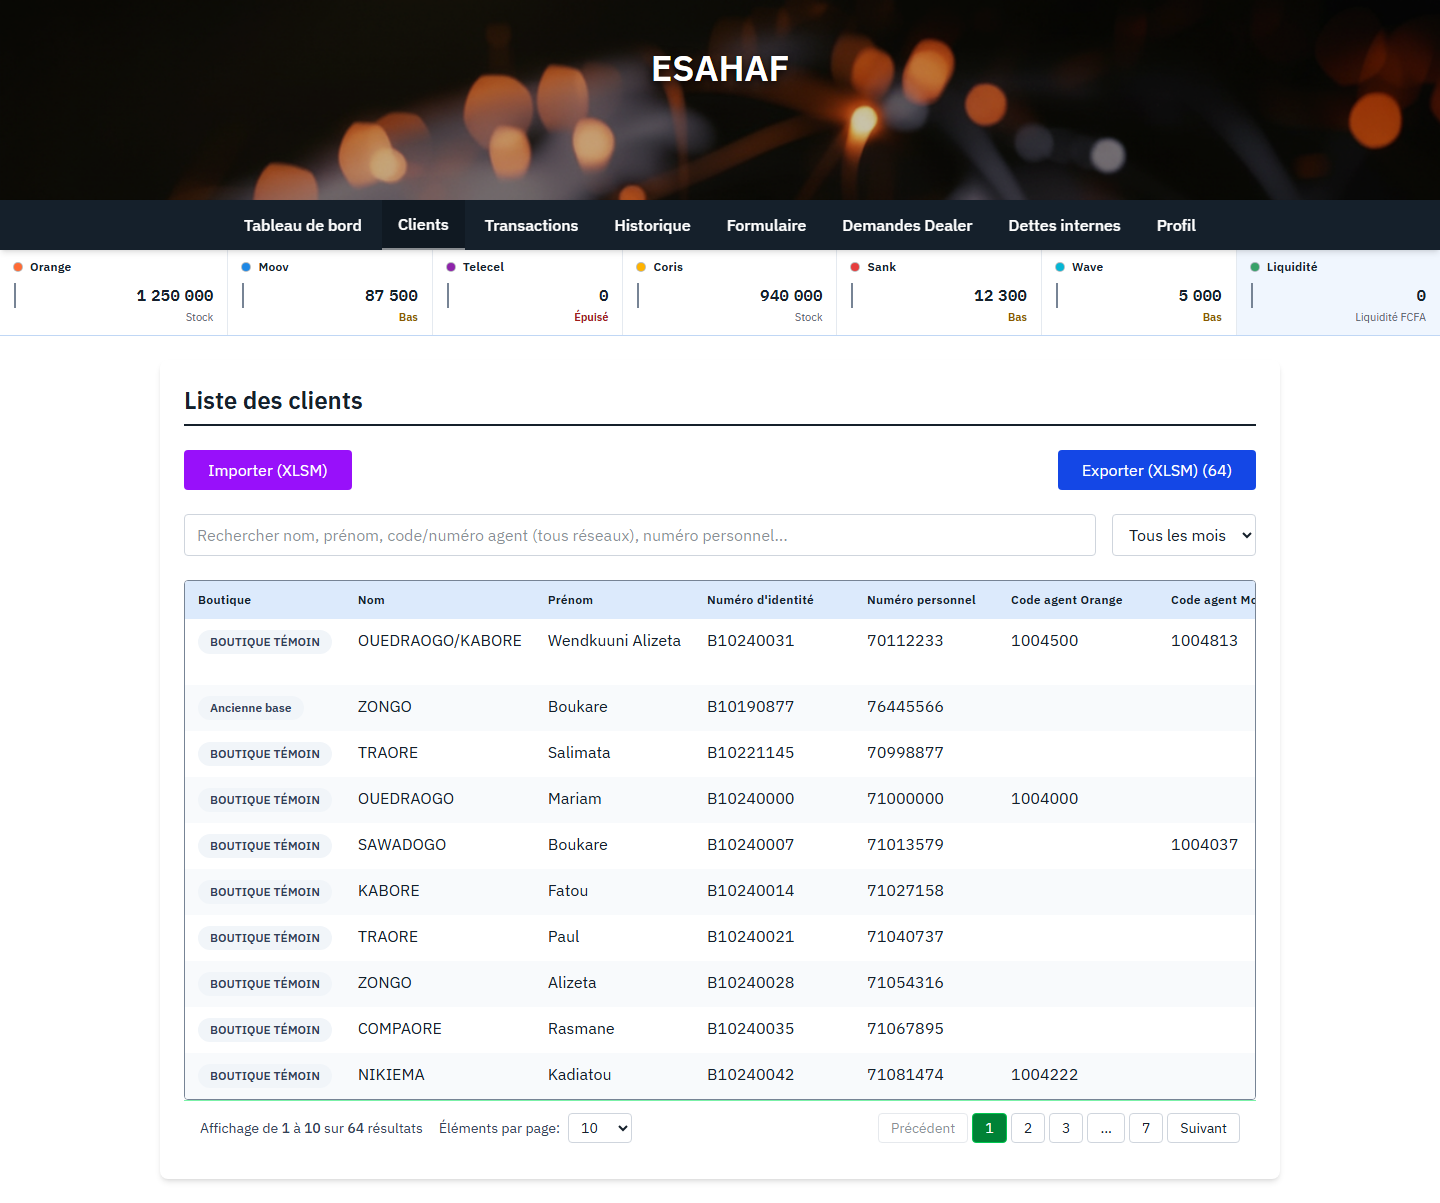
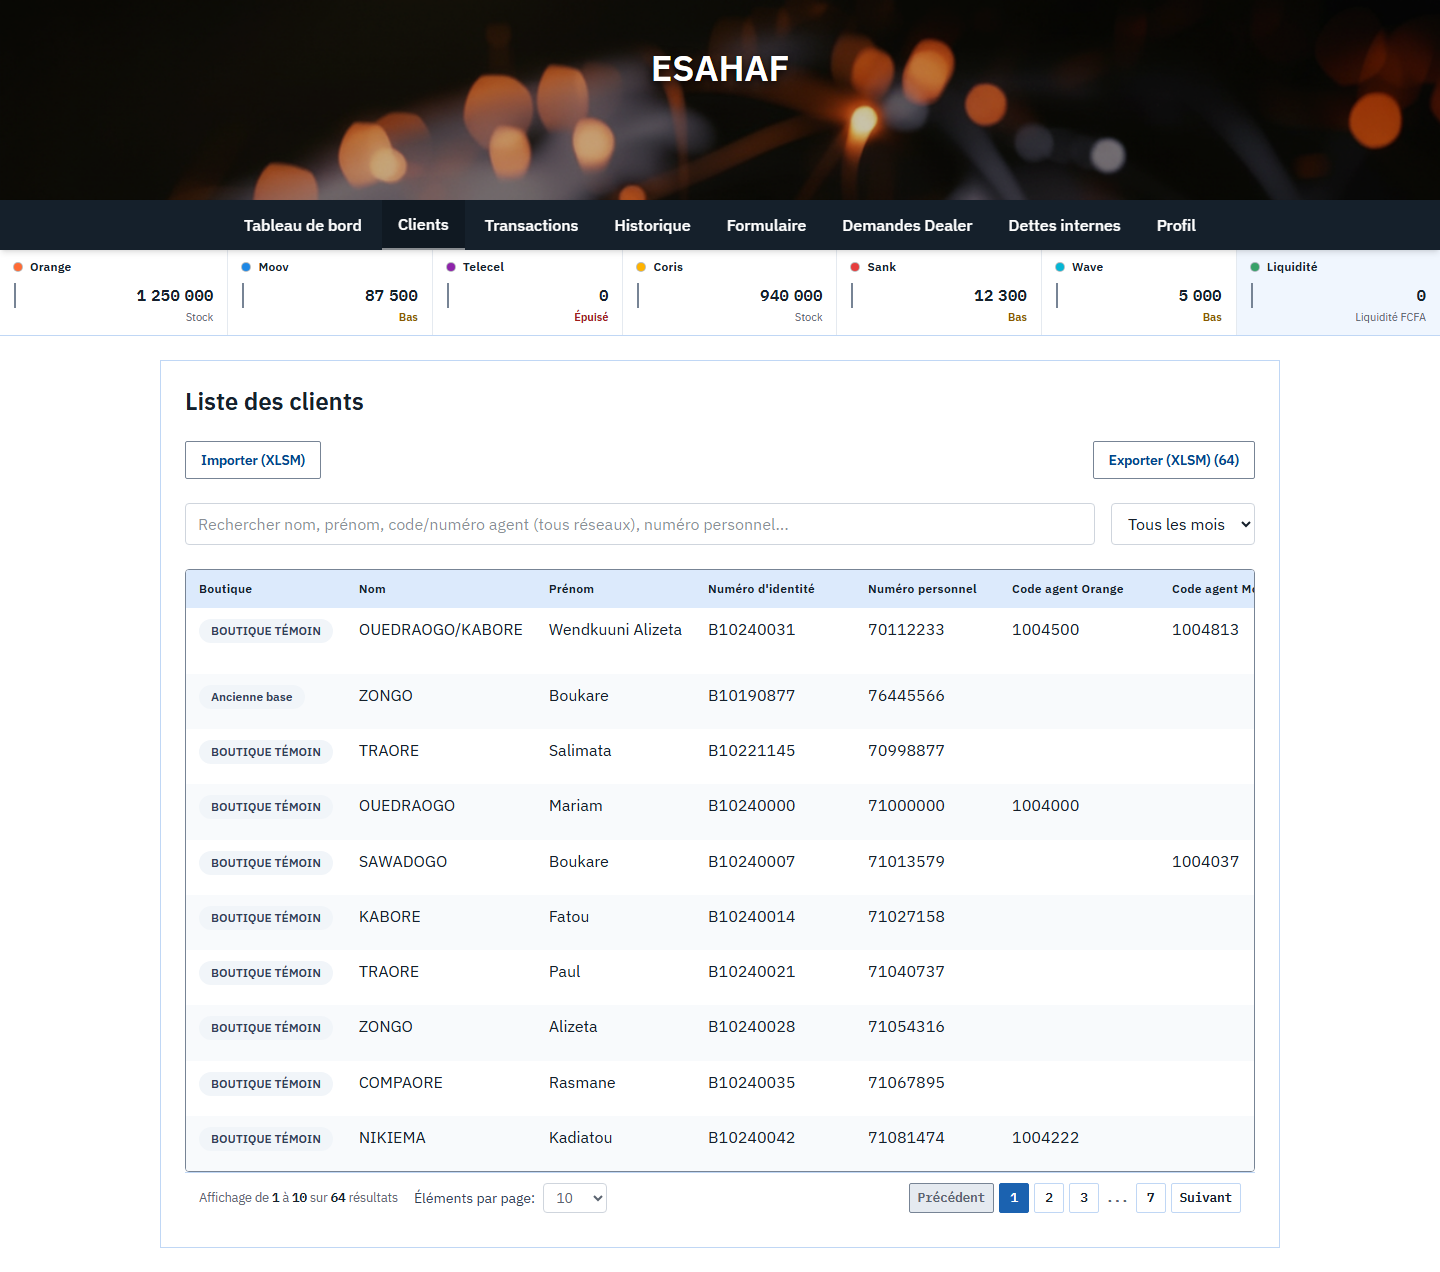
feat(design): L8.2 — l'ecran Clients, RESTYLE PUR : deux defauts geles tombent ensemble
Aucun texte n'est ajoute, retire ni deplace.

1. UN DEBORDEMENT DE 249 px, ET IL TENAIT EN UN MOT

La boucle QA le gelait a 375 px en designant `Pagination.jsx:74`. La barre de
pagination est un `flex justify-between` SANS `flex-wrap`, et elle porte deux
blocs qui ne tiennent pas cote a cote sur un telephone — « Affichage de 1 a 10
sur 64 resultats » plus le selecteur de taille d'un cote, « Precedent », les
numeros de page et « Suivant » de l'autre. Un flex sans wrap ne RETRECIT pas :
il POUSSE.

`flex-wrap: wrap` corrige le debordement. Le reste du bloc est de l'habillage :
`justify-between` collait les deux groupes aux bords opposes ; une fois la barre
capable de passer a la ligne, c'est `margin-left:auto` sur le groupe des pages
qui fait le meme travail sans l'imposer quand ca ne rentre pas — exactement ce
que fait la maquette, qui note elle-meme « meme decoupage que le composant
Pagination.jsx du produit ».

2. DU BLANC SUR ORANGE A 2,82:1, ET IL ETAIT CACHE PAR LE PREMIER

L'assertion de debordement interrompait le test AVANT le scan axe. Une fois le
debordement gele par sa VALEUR, le scan s'est execute et a trouve du blanc sur
`bg-orange-500` — 2,82:1 contre 4,5:1 exige — sur le bouton « Modifier » de
CHAQUE ligne, aux trois largeurs.

C'est la justification de la methode : un defaut gele laisse le reste du
controle travailler, la ou un rouge arrete tout. Un defaut peut en masquer un
autre.

LE BOUTON N'AVAIT PAS BESOIN D'UNE COULEUR, IL AVAIT BESOIN D'UN RANG
[…]

diff --git a/src/index.css b/src/index.css
@@ -843,6 +843,118 @@ body {
 }
 
 /* ═══════════════════════════════════════════════════════════════════════════
+   LA PAGINATION (lot L8.2) — RESTYLE PUR
+   ───────────────────────────────────────────────────────────────────────────
+   ⚠ CE BLOC CORRIGE UN DÉBORDEMENT DE 249 px, MESURÉ.
+
+   La boucle QA le gelait sur l'écran Clients à 375 px, en désignant
+   `Pagination.jsx:74`. La cause est une seule ligne : la barre est un
+   `flex justify-between` SANS `flex-wrap`, et elle porte deux blocs qui ne
+   tiennent pas côte à côte sur un téléphone — « Affichage de 26 à 50 sur 412
+   résultats » plus le sélecteur de taille d'un côté, dix-sept boutons de page
+   de l'autre. Un `flex` sans `wrap` ne rétrécit pas : il pousse.
+
+   Et ce débordement en CACHAIT un autre. L'assertion de débordement
+   interrompait le test AVANT le scan axe ; une fois le débordement gelé
+   nommément, le scan s'est exécuté et a trouvé du blanc sur `bg-orange-500` —
+   2,82:1 contre 4,5:1 exigé — sur le bouton « Modifier » de CHAQUE ligne, aux
+   trois largeurs. C'est la justification de la méthode : un défaut gelé par sa
+   valeur laisse le reste du contrôle travailler, là où un rouge arrête tout.
+
+   CE QUE DIT LA MAQUETTE (elle note elle-même « même découpage que le composant
+   Pagination.jsx du produit ») :
+     .pagination        flex-wrap:wrap, gap 12px, filet haut, 12,5px
+     .pagination__pages margin-left:auto, flex-wrap:wrap
+     .page              mono, min-width 30px, contour --trait-200
+     .page.actif        fond --brand-500, blanc dessus — 6,14:1
+   ═══════════════════════════════════════════════════════════════════════════ */
+
+.design-registre [data-espace='boutique'] [data-pagination] {
+  /* LA CORRECTION DU DÉBORDEMENT TIENT EN CE MOT. Le reste est de l'habillage. */
+  flex-wrap: wrap;
+  /* `justify-between` collait les deux blocs aux bords opposés ; une fois la
+     barre capable de passer à la ligne, c'est `margin-left:auto` sur le groupe
+     des pages qui fait le même travail sans l'imposer quand ça ne rentre pas. */
+  justify-content: flex-start;
+  gap: 0.75rem;
+  background: var(--color-papier);
+  border-top: 1px solid var(--color-trait-200);
+  padding: 0.625rem 0.875rem;
+  font-size: 0.78125rem; /* 12,5px */
+}
+
+.design-registre [data-espace='boutique'] [data-pagination-compte],
+.design-registre [data-espace='boutique'] [data-pagination-taille] {
+  color: var(--color-encre-doux);
+  font-size: 0.78125rem;
+}
+
+/* Les trois nombres de la phrase sont des NOMBRES : ils se comparent d'une page
+   à l'autre. Chasse fixe, sans la réglure — ce ne sont pas des FCFA. */
+.design-registre [data-espace='boutique'] [data-pagination-compte] span {
+  color: var(--color-encre);
+  font-family: var(--font-plex-mono);
+  font-variant-numeric: tabular-nums;
+  font-weight: 600;
+}
+
+.design-registre [data-espace='boutique'] [data-pagination-pages] {
+  margin-left: auto;
+  flex-wrap: wrap;
+  gap: 0.3125rem;
+}
+
+.design-registre [data-espace='boutique'] [data-page] {
+  font-family: var(--font-plex-mono);
+  font-variant-numeric: tabular-nums;
+  font-size: 0.78125rem;
+  font-weight: 600;
+  min-width: 1.875rem; /* 30px — un « 1 » et un « 17 » occupent la même case */
+  padding: 0.3125rem 0.5rem;
+  border: 1px solid var(--color-trait-200);
+  border-radius: 2px;
+  background: var(--color-papier);
+  color: var(--color-encre);
+}
+
+/* La page courante prend la marque, comme l'onglet actif : c'est le même
+   système qui dit où l'on est. Blanc sur --brand-500 = 6,14:1. */
+.design-registre [data-espace='boutique'] [data-page-actif] {
+  background: var(--color-brand-500);
+  border-color: var(--color-brand-500);
+  color: #fff;
+}
+
+/* Les points de suspension ne sont pas une cible : ni contour, ni fond. */
+.design-registre [data-espace='boutique'] [data-page-points] {
+  border: 0;
+  background: none;
+  color: var(--color-encre-doux);
+  min-width: 0;
+  padding: 0.3125rem 0.125rem;
+}
+
+/* ⚠ « Précédent » et « Suivant » désactivés : le dépôt les rend en
+   `disabled:opacity-50`, ce qui divise le contraste par deux au lieu de le
+   choisir. Même traitement que les boutons d'action désactivés — --encre-doux
+   sur --reglure, 4,96:1, mesuré par `npm run qa:jetons`. Un contrôle désactivé
+   reste LISIBLE : sinon l'utilisateur ne sait plus ce qu'il fera une fois
+   redevenu possible. */
+.design-registre [data-espace='boutique'] [data-page]:disabled {
+  opacity: 1;
+  background: var(--color-reglure);
+  border-color: var(--color-filet);
+  color: var(--color-encre-doux);
+}
+
+/* Sauf les points : ils sont `disabled` pour n'être pas cliquables, pas pour
+   paraître éteints. La règle ci-dessus leur redonnerait un fond. */
+.design-registre [data-espace='boutique'] [data-page-points]:disabled {
+  background: none;
+  border: 0;
+}
+
+/* ═══════════════════════════════════════════════════════════════════════════
    LES TUILES ET LES SURFACES DU TABLEAU DE BORD (lot L8.1d) — RESTYLE PUR
    ───────────────────────────────────────────────────────────────────────────
    Aucun texte n'est ajouté, retiré ni déplacé par ce bloc. Ce qui change est ce

diff --git a/tests/qa/ecrans-authentifies.spec.js b/tests/qa/ecrans-authentifies.spec.js
@@ -69,30 +69,27 @@ const ECRANS = [
   { nom: 'tableau-de-bord', lien: 'Tableau de bord', chemin: '/', marqueur: /derniers clients enregistrés/i },
   { nom: 'transactions', lien: 'Transactions', chemin: '/transactions', marqueur: /transaction/i },
   { nom: 'historique', lien: 'Historique', chemin: '/historique', marqueur: /historique/i },
-  // ⚠ DÉBORDEMENT FIGÉ — 249 px a 375 px, cause : la rangee de pagination est un
-  // `flex items-center gap-1` SANS `flex-wrap` (Pagination.jsx:74). Avec trente
-  // clients semes, « Precedent », les numeros de page et « Suivant » ne tiennent
-  // pas dans 375 px et poussent la page entiere.
+  // 〉 RETOURNÉ AU LOT L8.2 — DEUX DÉFAUTS FIGÉS ONT DISPARU ENSEMBLE.
   //
-  // ANTERIEUR A CE CHANTIER, et verifie comme tel : `git stash` sur l'arbre
-  // d'avant le lot L7.4b rend le MEME debordement, le meme bouton, le meme
-  // 624 px. `Pagination.jsx` n'a pas ete touche depuis le lot WCAG.
-  // ⚠ PAR LARGEUR, et non globalement : le defaut n'existe qu'a 375 px. Une
-  // tolerance globale serait fausse aux deux autres largeurs — elle y exigerait
-  // un debordement qui n'a aucune raison de s'y produire, et rendrait rouge un
-  // ecran sain.
-  // ⟲ A RETOURNER AU LOT L8.2 (ecran Clients).
+  // 1. Un débordement de 249 px à 375 px, causé par une rangée de pagination en
+  //    `flex` SANS `flex-wrap` (Pagination.jsx) : un flex sans wrap ne rétrécit
+  //    pas, il pousse. La barre passe désormais à la ligne.
   //
-  // ⚠ DEUXIEME DEFAUT FIGE sur le meme ecran, et il etait CACHE PAR LE PREMIER :
-  // l'assertion de debordement interrompait le test avant le scan axe. Une fois
-  // le debordement gele, le scan s'execute et trouve du blanc sur `bg-orange-500`
-  // — 2,82:1, contre 4,5:1 exige — sur le bouton d'action de chaque ligne, aux
-  // TROIS largeurs. Un defaut peut donc en masquer un autre, et c'est une raison
-  // de plus pour geler nommement plutot que de laisser rouge.
-  // ⟲ A RETOURNER AU LOT L8.2 (ecran Clients), avec le debordement.
-  { nom: 'clients', lien: 'Clients', chemin: '/clients', marqueur: /client/i,
-    debordementFige: { 'mobile-375': 249 },
-    defautFige: { regle: 'color-contrast', element: /bg-orange-500/ } },
+  // 2. Du blanc sur `bg-orange-500` — 2,82:1 contre 4,5:1 exigé — sur le bouton
+  //    « Modifier » de CHAQUE ligne, aux trois largeurs. Les actions de ligne
+  //    portent maintenant `data-rang="second"` : un contour, pas un aplat, et
+  //    du --brand-600 à 9,39:1 sur le papier.
+  //
+  // ⚠ LE SECOND ÉTAIT CACHÉ PAR LE PREMIER : l'assertion de débordement
+  // interrompait le test AVANT le scan axe. C'est ce qui justifie de geler par
+  // la VALEUR plutôt que de laisser rouge — un rouge arrête tout, un gel laisse
+  // le reste du contrôle travailler.
+  //
+  // Les deux tolérances ont ROUGI d'elles-mêmes au premier banc suivant la
+  // correction (« le débordement figé de « clients » a disparu », « le défaut
+  // figé de « clients » a disparu »), aux trois largeurs. Elles sont retirées
+  // ici : c'est la preuve que la correction a eu lieu, et non le souvenir.
+  { nom: 'clients', lien: 'Clients', chemin: '/clients', marqueur: /client/i },
   { nom: 'profil', lien: 'Profil', chemin: '/profil', marqueur: /se déconnecter/i },
   // ── Étendu de 5 à 8 écrans (lot L6.2 de la refonte) ───────────────────────
   //

diff --git a/src/components/Pagination.jsx b/src/components/Pagination.jsx
@@ -48,15 +48,15 @@ function Pagination({
   if (totalPages <= 1) return null
 
   return (
-    <div className="flex items-center justify-between bg-white px-4 py-3 border-t border-green-300">
+    <div data-pagination className="flex items-center justify-between bg-white px-4 py-3 border-t border-green-300">
       <div className="flex items-center gap-4">
-        <p className="text-sm text-gray-700">
+        <p data-pagination-compte className="text-sm text-gray-700">
           Affichage de <span className="font-medium">{startIndex}</span> à{' '}
           <span className="font-medium">{endIndex}</span> sur{' '}
           <span className="font-medium">{totalItems}</span> résultats
         </p>
         
-        <div className="flex items-center gap-2">
+        <div data-pagination-taille className="flex items-center gap-2">
           <label htmlFor={idTaillePage} className="text-sm text-gray-700">Éléments par page:</label>
           <select
             id={idTaillePage}
@@ -71,10 +71,11 @@ function Pagination({
         </div>
       </div>
 
-      <div className="flex items-center gap-1">
+      <div data-pagination-pages className="flex items-center gap-1">
         <button
           onClick={() => onPageChange(currentPage - 1)}
           disabled={!hasPrevPage}
+          data-page
           className="px-3 py-1 text-sm border border-gray-300 rounded disabled:opacity-50 disabled:cursor-not-allowed hover:bg-gray-50"
         >
           Précédent
@@ -85,6 +86,9 @@ function Pagination({
             key={index}
             onClick={() => typeof page === 'number' ? onPageChange(page) : null}
             disabled={page === '...'}
+            data-page
+            {...(page === currentPage ? { 'data-page-actif': '' } : {})}
+            {...(page === '...' ? { 'data-page-points': '' } : {})}
             className={`px-3 py-1 text-sm border border-gray-300 rounded ${
               page === currentPage 
                 ? 'bg-green-700 text-white border-green-500' 
@@ -100,6 +104,7 @@ function Pagination({
         <button
           onClick={() => onPageChange(currentPage + 1)}
           disabled={!hasNextPage}
+          data-page
           className="px-3 py-1 text-sm border border-gray-300 rounded disabled:opacity-50 disabled:cursor-not-allowed hover:bg-gray-50"
         >
           Suivant

diff --git a/src/components/ClientsTable.jsx b/src/components/ClientsTable.jsx
@@ -30,9 +30,21 @@ function ClientsTable({ clients, onDelete, onEdit, onImportClients, onAccessCode
   )
   const { themeClasses } = useTheme()
 
+  // `data-surface` : la page entiere tient dans une carte blanche arrondie a
+  // ombre portee. Sous l'identite elle devient un panneau plat borde d'un filet
+  // — meme fonction, sans les trois tics que le chantier retire partout
+  // ailleurs. La maquette, elle, ne met AUCUNE carte ici : l'ecran pose
+  // directement sur le canvas. La supprimer serait un changement de structure,
+  // pas un restylage ; l'aplatir est la mesure juste.
   return (
-    <div className="bg-white rounded-lg shadow-md p-6">
-      <h2 className={`text-2xl font-bold ${themeClasses.text} mb-6 border-b-2 border-current pb-2`}>
+    <div data-surface className="bg-white rounded-lg shadow-md p-6">
+      {/* `data-tete-ecran` : sur cet ecran, ce h2 EST la tete de page — il n'y a
+          pas d'autre titre. Le marqueur ne touche pas au niveau du titre, qui
+          reste un h2 : la maquette le dit elle-meme (« un h2, jamais un second
+          h1 »), et changer le niveau modifierait l'arbre d'accessibilite, ce
+          qui n'est pas un restylage. Il ne retire que le trait noir de 2 px,
+          comme sur les neuf autres ecrans. */}
+      <h2 data-tete-ecran className={`text-2xl font-bold ${themeClasses.text} mb-6 border-b-2 border-current pb-2`}>
         Liste des clients
       </h2>
 
@@ -50,12 +62,14 @@ function ClientsTable({ clients, onDelete, onEdit, onImportClients, onAccessCode
         <button 
           onClick={handleImportClick}
           disabled={isImporting}
+          data-rang="second"
           className="bg-purple-600 hover:bg-purple-700 disabled:bg-purple-300 text-white px-6 py-2 rounded transition-colors"
         >
           {isImporting ? 'Import en cours...' : 'Importer (XLSM)'}
         </button>
         <button 
           onClick={() => handleExport(filteredClients)}
+          data-rang="second"
           className="bg-blue-700 hover:bg-blue-700 text-white px-6 py-2 rounded transition-colors"
         >
           Exporter (XLSM) {filteredClients.length > 0 && `(${filteredClients.length})`}

diff --git a/src/components/TableRow.jsx b/src/components/TableRow.jsx
@@ -34,6 +34,7 @@ const TableRow = memo(({ client, index, onEdit, onAccessCode }) => {
         <div className="flex gap-2 justify-center">
           <button
             onClick={() => onEdit && onEdit(client)}
+            data-rang="second"
             className="bg-orange-500 hover:bg-orange-600 text-white px-3 py-1 rounded text-sm"
           >
             Modifier
@@ -43,6 +44,7 @@ const TableRow = memo(({ client, index, onEdit, onAccessCode }) => {
               type="button"
               onClick={() => onAccessCode(client)}
               data-testid="btn-access-code"
+              data-rang="second"
               className="bg-green-700 hover:bg-green-700 text-white px-3 py-1 rounded text-sm"
             >
               Code d'accès
@@ -52,6 +54,7 @@ const TableRow = memo(({ client, index, onEdit, onAccessCode }) => {
             type="button"
             disabled
             title="Suppression désactivée pour protéger la base clients commune"
+            data-rang="second"
             className="cursor-not-allowed bg-gray-300 text-gray-500 px-3 py-1 rounded text-sm"
           >
             Supprimer
